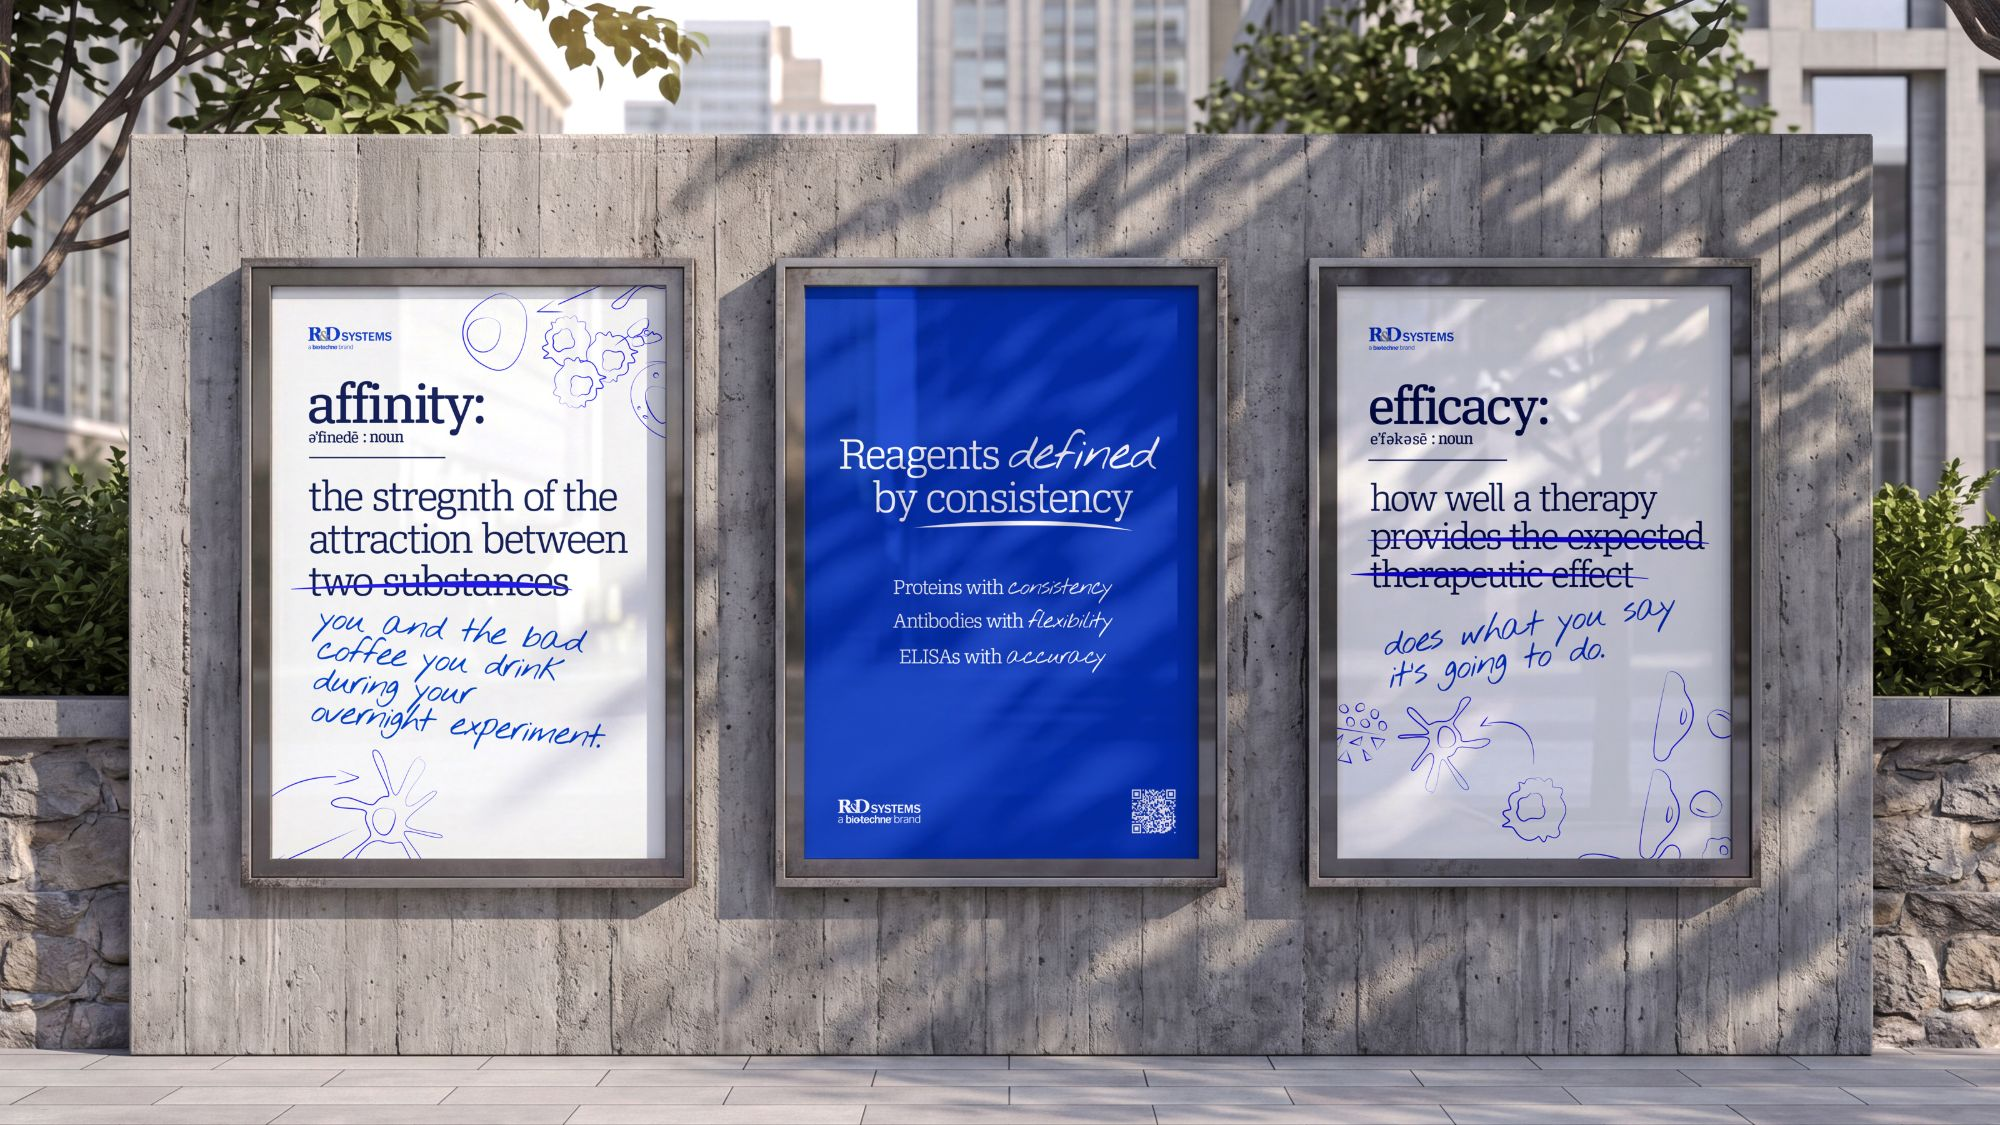
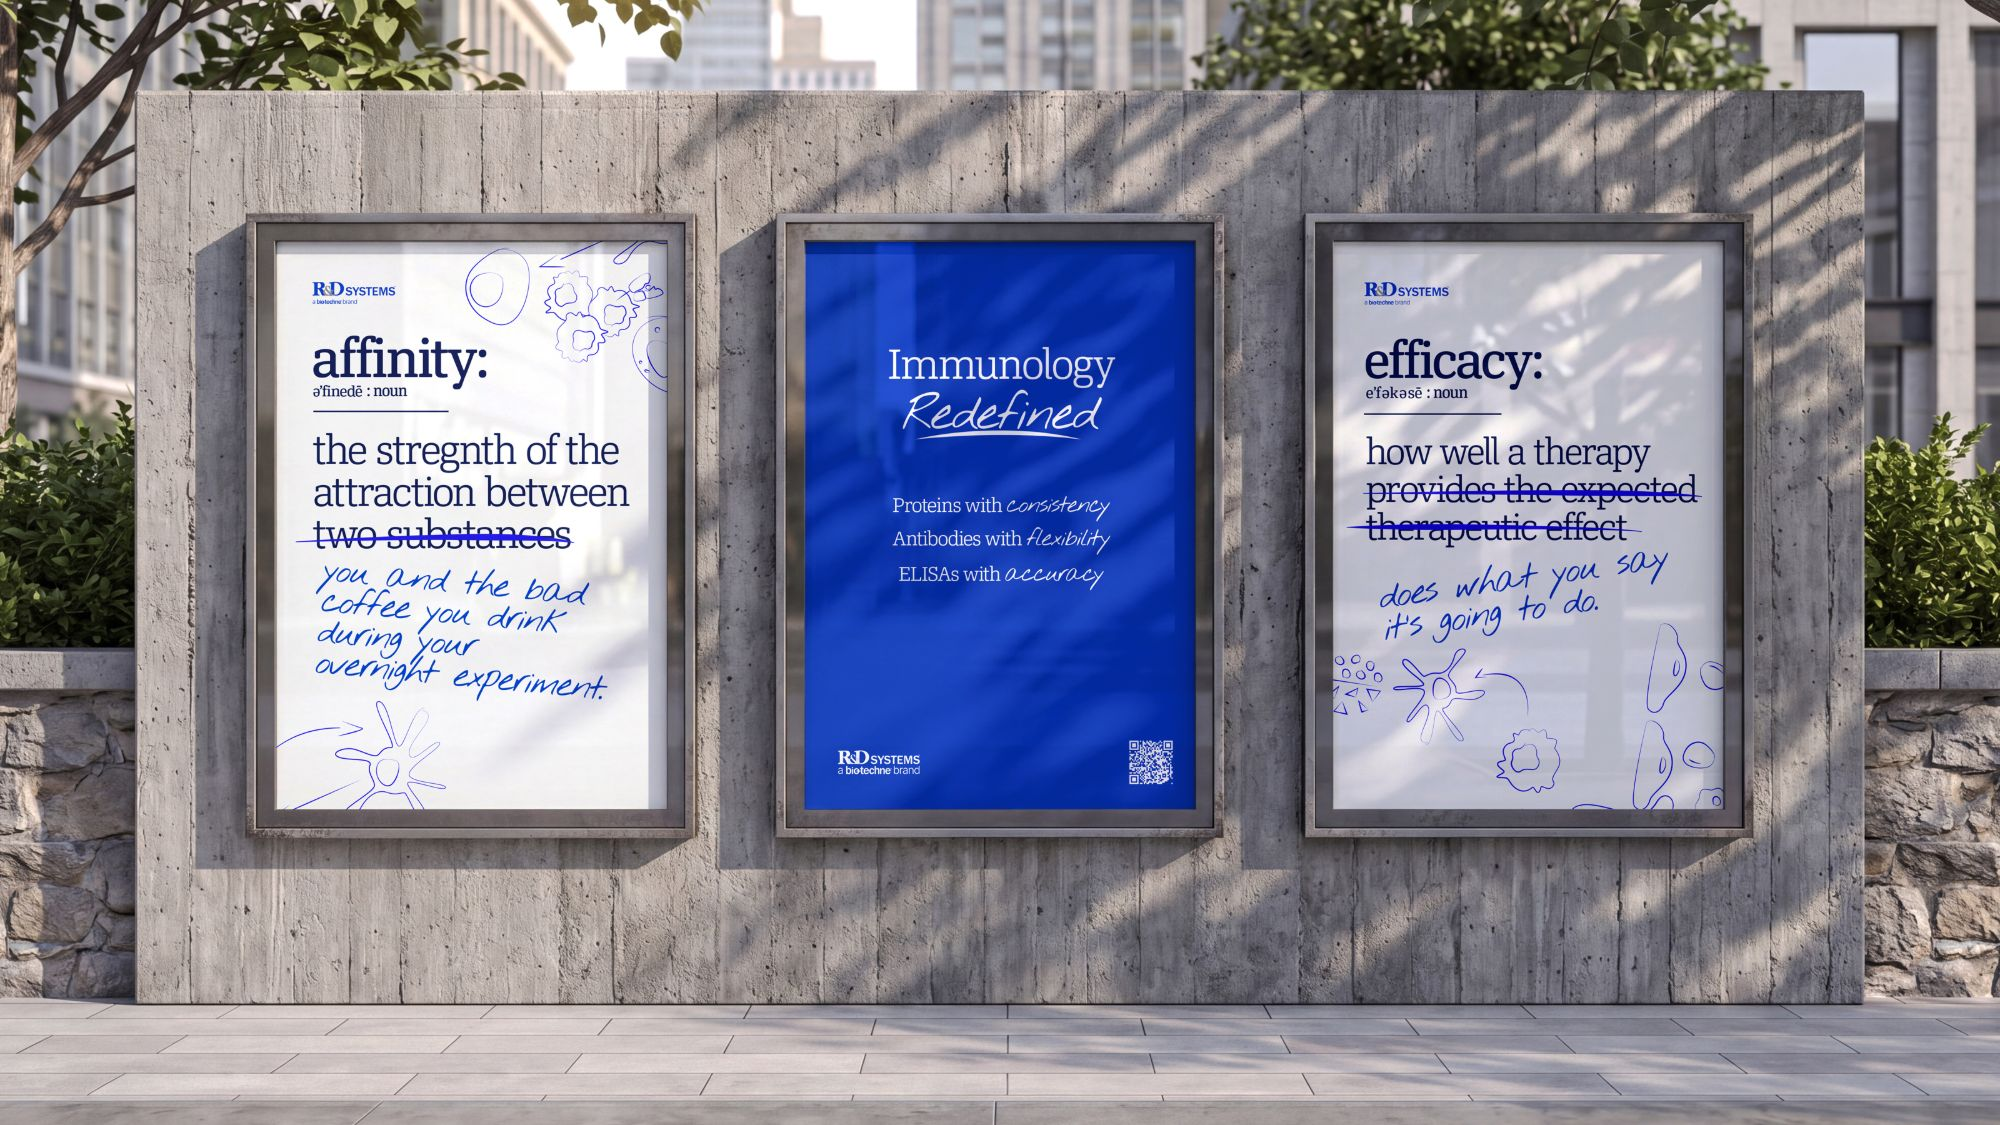
Immunology: updated billboard trio
Claude-Session: https://claude.ai/code/session_015WxX2viJzYVTakY4j3fEPW

diff --git a/src/content/projects/biotechne-immunology.md b/src/content/projects/biotechne-immunology.md
@@ -115,6 +115,6 @@ gallery:
         alt: "A tablet showing an R&D Systems email: “Immunology Solutions” with hand-drawn cells and a Learn More button, a dictionary-definition banner reading “Redefining research with consistent reagents”, and illustrated cards for Immuno-oncology and Cell Therapy."
   - type: image
     image: "../../assets/projects/biotechne-immunology/billboards.jpg"
-    alt: "Three framed posters on a concrete wall in a city plaza. Left: “affinity: the strength of the attraction between two substances”, with “two substances” struck through and “you and the bad coffee you drink during your overnight experiment.” handwritten beneath. Centre, on BT Blue: “Reagents defined by consistency. Proteins with consistency, antibodies with flexibility, ELISAs with accuracy.” Right: “efficacy: how well a therapy provides the expected therapeutic effect”, struck through, with “does what you say it’s going to do.” handwritten beneath."
+    alt: "Three framed posters on a concrete wall in a city plaza. Left: “affinity: the strength of the attraction between two substances”, with “two substances” struck through and “you and the bad coffee you drink during your overnight experiment.” handwritten beneath. Centre, on BT Blue: “Immunology Redefined”, with “Redefined” handwritten, above “Proteins with consistency, antibodies with flexibility, ELISAs with accuracy.” Right: “efficacy: how well a therapy provides the expected therapeutic effect”, struck through, with “does what you say it’s going to do.” handwritten beneath."
   # More images go here as they arrive.
 ---
